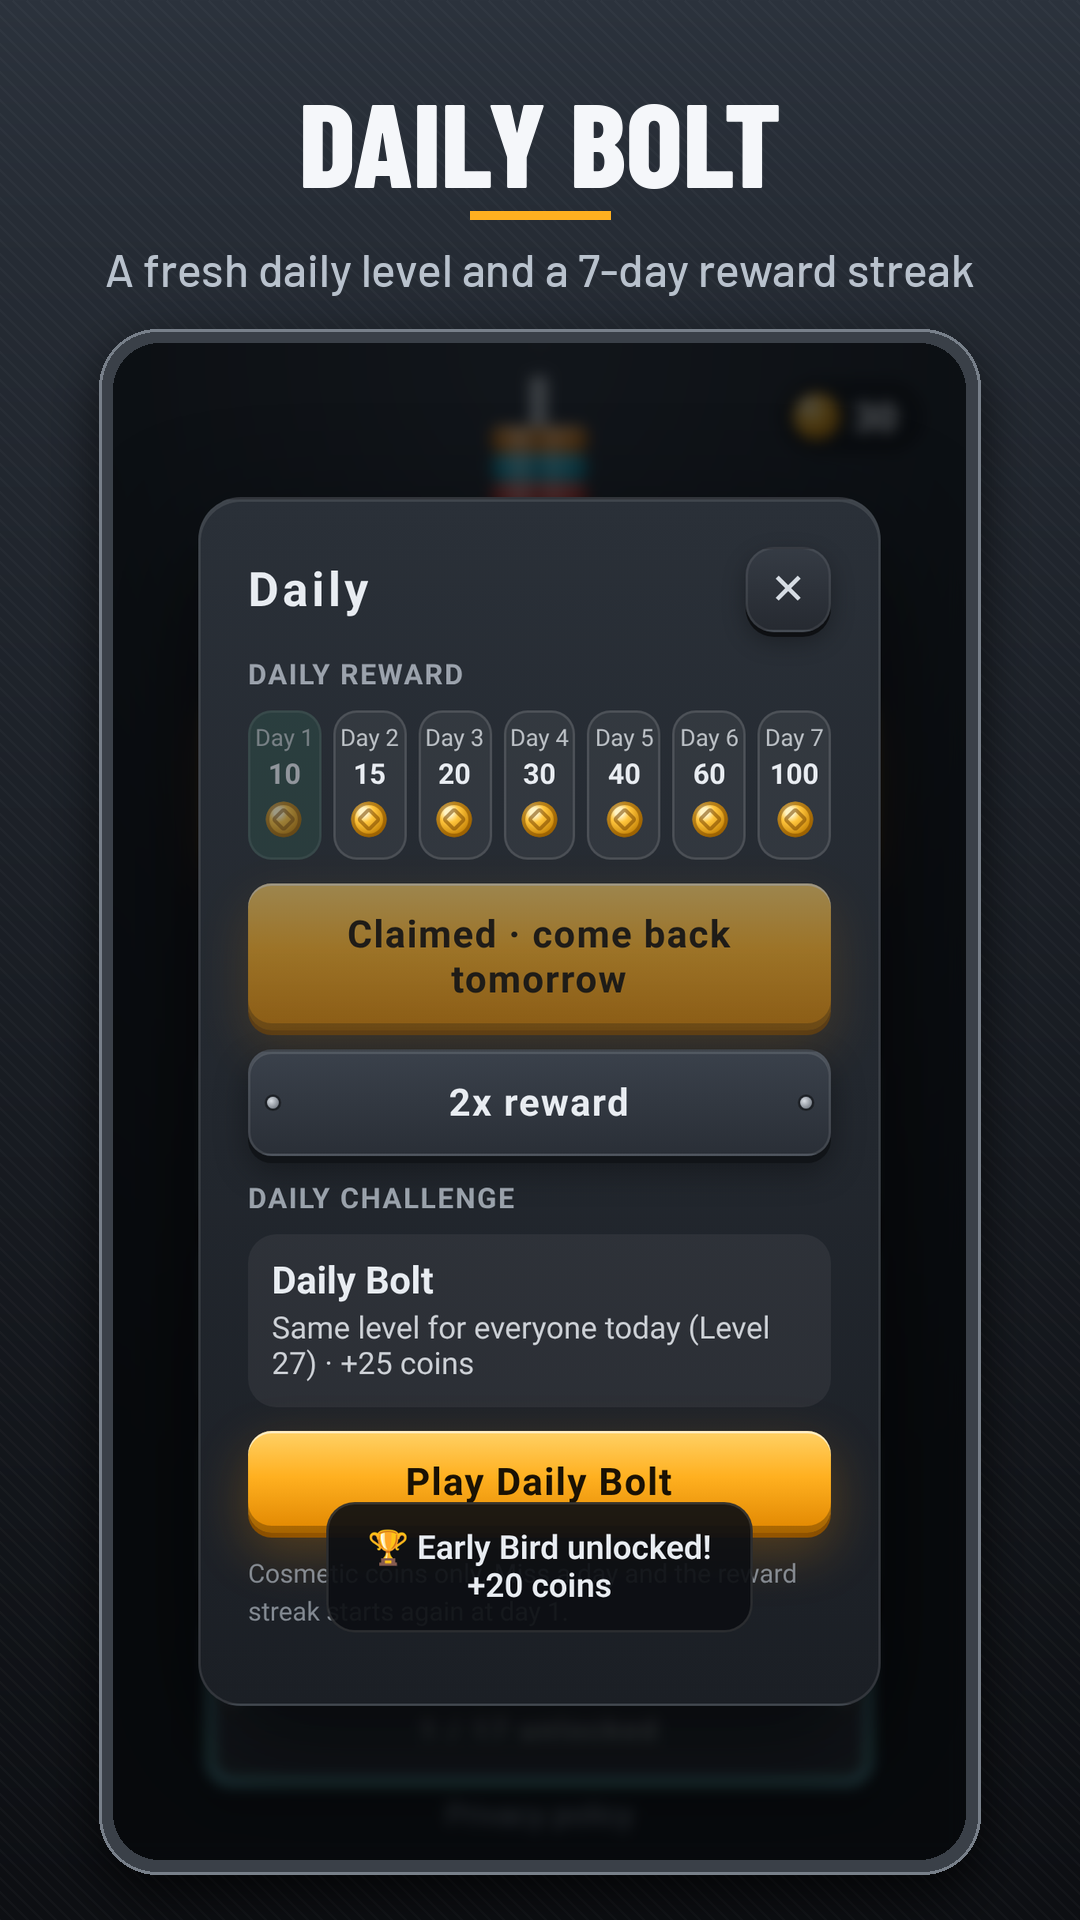
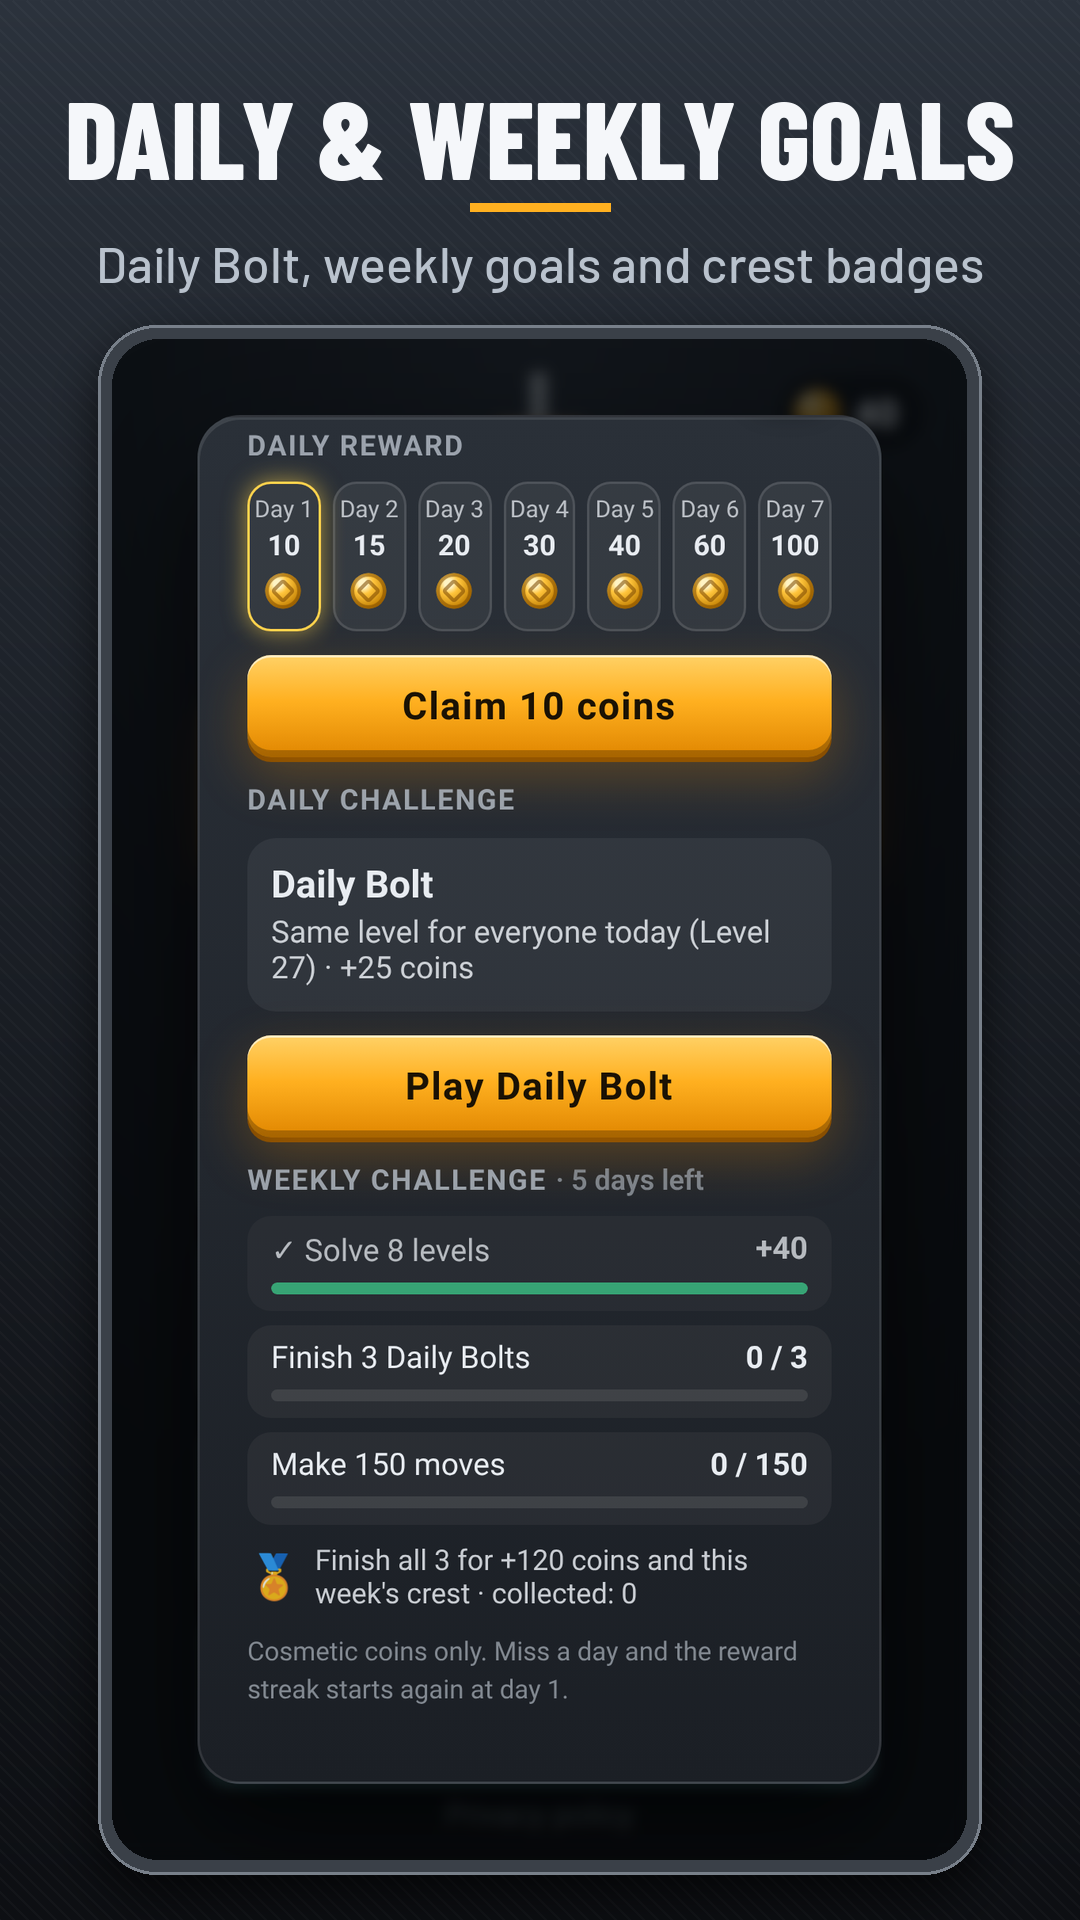
v1.9.0: screen-reader labels + non-drag placement, accessible theme preview, sudoku top bar fix, refreshed store kit

Changed region(s): [[0.1833, 0.2188, 0.825, 0.9062], [0.0611, 0.0312, 0.9472, 0.2188], [0.8861, 0.1875, 0.9167, 0.2188]]

diff --git a/www/js/a11y.js b/www/js/a11y.js
@@ -40,6 +40,38 @@
     });
   };
   A.sync = function (settings, ids) { A.apply(settings); Object.keys(ids).forEach(function (k) { var el = document.getElementById(ids[k]); if (el) el.checked = k === 'reduceMotion' ? A.reduced() : !!settings[k]; }); };
+
+  /**
+   * v1.9 shop preview: "Preview with" chips (High contrast / Larger text / Symbols) in the shop panel.
+   * Temporary only: nothing is saved, and the real settings are restored when the shop closes.
+   */
+  A.preview = { contrast: null, largeText: null, marks: null };
+  A.marksOn = function (settings) { return A.preview.marks != null ? A.preview.marks : !!(settings && settings.marks); };
+  A.previewBar = function (o) {
+    var ov = document.getElementById(o.overlay || 'shop'); if (!ov) return null;
+    var panel = ov.querySelector('.panel'), anchor = panel.querySelector('.note');
+    var bar = document.createElement('div'); bar.className = 'a11y-preview'; bar.setAttribute('role', 'group'); bar.setAttribute('aria-label', 'Preview themes with accessibility options');
+    bar.innerHTML = '<span class="a11y-preview-l">Preview with:</span>';
+    var chips = [['contrast', 'High contrast'], ['largeText', 'Larger text']].concat(o.marks ? [['marks', 'Symbols']] : []);
+    function cur(k) { return A.preview[k] != null ? A.preview[k] : !!o.settings[k]; }
+    function paint() {
+      var cl = document.documentElement.classList;
+      cl.toggle('a11y-contrast', cur('contrast')); cl.toggle('a11y-large', cur('largeText'));
+      if (o.marks) document.body.classList.toggle('marks', cur('marks'));
+      Array.prototype.forEach.call(bar.querySelectorAll('button'), function (b) { var on = cur(b.dataset.k); b.classList.toggle('on', on); b.setAttribute('aria-pressed', on ? 'true' : 'false'); });
+    }
+    chips.forEach(function (c) {
+      var b = document.createElement('button'); b.type = 'button'; b.className = 'chip'; b.dataset.k = c[0]; b.textContent = c[1];
+      b.addEventListener('click', function () { A.preview[c[0]] = !cur(c[0]); paint(); if (o.rerender) o.rerender(); if (o.sfx) o.sfx(); });
+      bar.appendChild(b);
+    });
+    if (anchor && anchor.nextSibling) panel.insertBefore(bar, anchor.nextSibling); else panel.appendChild(bar);
+    function reset() { A.preview = { contrast: null, largeText: null, marks: null }; A.apply(o.settings); if (o.marks) document.body.classList.toggle('marks', !!o.settings.marks); if (o.rerender) o.rerender(); paint(); }
+    new MutationObserver(function () { if (ov.classList.contains('hidden')) { if (A.preview.contrast != null || A.preview.largeText != null || A.preview.marks != null) reset(); } else paint(); })
+      .observe(ov, { attributes: true, attributeFilter: ['class'] });
+    paint();
+    return { reset: reset, paint: paint };
+  };
   if (typeof Element !== 'undefined' && Element.prototype.animate && !Element.prototype.animate.__a11y) {
     var orig = Element.prototype.animate;
     var wrapped = function (frames, opts) {

diff --git a/test/v19.test.js b/test/v19.test.js
@@ -1,0 +1,16 @@
+const assert = require('assert'), fs = require('fs'), dir = __dirname + '/../www/';
+const SR = require('../www/js/sr.js');
+assert.strictEqual(SR.assistive({ type: 'click', detail: 0 }), true, 'keyboard/TalkBack click');
+assert.strictEqual(SR.assistive({ type: 'click', detail: 1 }), false, 'real tap is not assistive');
+assert.strictEqual(SR.assistive({ type: 'pointerdown', detail: 0 }), false);
+const A = require('../www/js/a11y.js');
+assert.strictEqual(typeof A.previewBar, 'function');
+assert.strictEqual(A.marksOn({ marks: true }), true); A.preview.marks = false; assert.strictEqual(A.marksOn({ marks: true }), false, 'preview overrides'); A.preview.marks = null;
+const html = fs.readFileSync(dir + 'index.html', 'utf8'), game = fs.readFileSync(dir + 'js/game.js', 'utf8'), css = fs.readFileSync(dir + 'css/style.css', 'utf8');
+assert(html.indexOf('js/sr.js') > 0 && html.indexOf('js/sr.js') < html.indexOf('js/game.js'));
+assert(/previewBar\(/.test(game) && css.includes('.sr-only') && css.includes('.a11y-preview'));
+const name = fs.realpathSync(__dirname);
+if (/hexa-sort/.test(name)) assert(/function srSync/.test(game) && /cv\.setAttribute\('aria-hidden'/.test(game), 'hexa canvas has an accessible overlay');
+if (/block-puzzle/.test(name)) assert(/srSlotActivate/.test(game) && /'Piece ' \+ \(i \+ 1\)/.test(game), 'block tray pieces are labelled + activatable');
+if (/sudoku/.test(name)) { assert(/'Row ' \+ \(L\.ROW\[i\] \+ 1\)/.test(game), 'sudoku cells labelled'); assert(!/b\.daily::before/.test(css), 'top bar no longer prefixes Daily'); }
+console.log('v1.9 tests ok');

diff --git a/www/css/style.css b/www/css/style.css
@@ -412,3 +412,13 @@ html.a11y-contrast :focus-visible { outline: 3px solid #ffd400 !important; outli
 html.a11y-contrast .overlay { background: rgba(0,0,0,.78); }
 html.a11y-contrast { --muted: var(--txt); }
 html.a11y-contrast .nut { outline: 2px solid rgba(0,0,0,.75); outline-offset: -2px; }
+/* Screen-reader helpers (v1.9) */
+.sr-only { position: absolute !important; width: 1px; height: 1px; padding: 0; margin: -1px; overflow: hidden; clip: rect(0 0 0 0); white-space: nowrap; border: 0; }
+.sr-grid { position: absolute; inset: 0; pointer-events: none; z-index: 2; }
+.sr-grid button { position: absolute; width: 44px; height: 44px; transform: translate(-50%, -50%); background: transparent; border: 0; padding: 0; color: transparent; font-size: 1px; }
+.sr-grid button:focus-visible, .slot:focus-visible, #board .cell:focus-visible { outline: 3px solid #ffd400; outline-offset: 2px; border-radius: 8px; }
+.slot.sr-sel { outline: 3px dashed #ffd400; outline-offset: -3px; border-radius: 12px; }
+.a11y-preview { display: flex; flex-wrap: wrap; align-items: center; gap: 6px; margin: 2px 0 8px; font-size: 12px; }
+.a11y-preview-l { opacity: .75; font-weight: 700; }
+.a11y-preview .chip { padding: 5px 10px; border-radius: 999px; border: 1px solid rgba(127,127,127,.45); background: rgba(127,127,127,.12); font-size: 12px; font-weight: 700; color: inherit; }
+.a11y-preview .chip.on { background: #ffd400; color: #1a1400; border-color: #ffd400; }

diff --git a/www/js/sr.js b/www/js/sr.js
@@ -1,0 +1,22 @@
+/* Screen-reader helpers (v1.9): polite live region + "is this an assistive/keyboard activation?" */
+(function (root) {
+  'use strict';
+  var live = null, t = null;
+  var SR = {
+    say: function (msg) {
+      if (typeof document === 'undefined' || !msg) return;
+      if (!live) {
+        live = document.getElementById('sr-live');
+        if (!live) { live = document.createElement('div'); live.id = 'sr-live'; live.className = 'sr-only'; live.setAttribute('aria-live', 'polite'); live.setAttribute('role', 'status'); document.body.appendChild(live); }
+      }
+      clearTimeout(t); live.textContent = '';
+      t = setTimeout(function () { live.textContent = msg; }, 60);
+    },
+    /** TalkBack double-tap and keyboard Enter/Space produce clicks with detail 0 (no real pointer) */
+    assistive: function (e) { return !!e && e.type === 'click' && !e.detail; },
+    COLORS: ['red', 'orange', 'yellow', 'green', 'teal', 'blue', 'purple', 'pink', 'cyan', 'lime'],
+    last: function () { return live ? live.textContent : ''; }
+  };
+  root.SR = SR;
+  if (typeof module !== 'undefined' && module.exports) module.exports = SR;
+})(typeof window !== 'undefined' ? window : globalThis);

diff --git a/www/js/game.js b/www/js/game.js
@@ -89,7 +89,7 @@
     var cl = document.body.classList;
     Array.prototype.slice.call(cl).forEach(function (c) { if (/^(bg|bolt|nut)-/.test(c)) cl.remove(c); });
     cl.add('bg-' + curSkin('bg'), 'bolt-' + curSkin('bolt'), 'nut-' + curSkin('nut'));
-    cl.toggle('marks', !!save.settings.marks);
+    cl.toggle('marks', window.A11y ? window.A11y.marksOn(save.settings) : !!save.settings.marks);
   }
   function wait(ms) { return new Promise(function (r) { setTimeout(r, ms); }); }
   function prefersReducedMotion() {
@@ -858,6 +858,7 @@
   window.__weekly = weekly;
 
   // ---------------- boot ----------------
+  if (window.A11y && window.A11y.previewBar) window.A11y.previewBar({ settings: save.settings, marks: true, rerender: function () { applySkins(); renderShop(); }, sfx: function () { SFX.click(); } });
   if (window.A11y) window.A11y.apply(save.settings);
   SFX.setEnabled(save.settings.sound);
   applySkins(); setCoins();

diff --git a/www/index.html b/www/index.html
@@ -136,7 +136,7 @@
           <button id="btn-replay-tutorial" class="btn plate" type="button">Replay tutorial</button>
           <button id="btn-reset" class="btn plate danger">Reset progress</button>
         </div>
-        <p class="ver">Nut &amp; Bolt Sort v1.8.0 · © OfferPk</p>
+        <p class="ver">Nut &amp; Bolt Sort v1.9.0 · © OfferPk</p>
       </div>
     </div>
 
@@ -167,6 +167,7 @@
   <script src="js/sound.js"></script>
   <script src="js/skins.js"></script>
   <script src="js/a11y.js"></script>
+  <script src="js/sr.js"></script>
   <script src="js/daily.js"></script>
   <script src="js/weekly.js"></script>
   <script src="js/weekly-goals.js"></script>

diff --git a/store/make_store_art.py b/store/make_store_art.py
@@ -21,8 +21,8 @@ CAPTIONS = [
     ('04', 'STUCK? GET A HINT', 'Optional solver hint and a spare bolt'),
     ('05', 'UNLOCK SLEEK FINISHES', 'Brass, copper, titanium & more. Cosmetic only'),
     ('06', '1000+ SOLVABLE LEVELS', 'Every level verified. Play offline, no Wi-Fi'),
-    ('07', 'DAILY BOLT', 'A fresh daily level and a 7-day reward streak'),
-    ('08', 'ACHIEVEMENTS & STATS', '17 goals to chase. Track your records'),
+    ('07', 'DAILY & WEEKLY GOALS', 'Daily Bolt, weekly goals and crest badges'),
+    ('08', 'PLAY YOUR WAY', 'Color symbols, high contrast, larger text'),
 ]
 
 

diff --git a/store/LISTING-v1.9.md b/store/LISTING-v1.9.md
@@ -1,0 +1,77 @@
+# Store listing v1.9.0: Nut & Bolt Sort (English, en-US)
+
+Package: `com.offerpk.nutboltsort` · Version 1.9.0 (versionCode 12). Supersedes `LISTING-v1.5.md` (app name unchanged).
+
+## Short description (limit 80)
+
+**77 / 80 characters**
+
+```
+Satisfying nut & bolt color sort puzzle. Daily level, rewards. Plays offline.
+```
+
+## Full description (limit 4000)
+
+**2045 / 4000 characters** (Python `len()`; bullets count as 1)
+
+```
+Nut & Bolt Sort is a tactile color-sorting puzzle. Unscrew nuts, move them between bolts and tighten every bolt with a single color. Every level is verified solvable.
+
+HOW TO PLAY
+• Tap a bolt to lift its top nuts, then tap another bolt to drop them
+• Nuts land only on an empty bolt or the same color with room to spare
+• Undo is free; optional Hint and +1 Bolt help when you are stuck
+• Sort every bolt to one color to clear the level
+
+COME BACK EVERY DAY
+• A Daily Bolt level that is the same for everyone, plus a 7-day reward calendar
+• Rising coin rewards for a 7-day streak (miss a day and it restarts)
+• Daily challenge streaks
+
+WEEKLY CHALLENGE
+• Three new goals every week, the same for every player
+• Earn coins and collect a crest badge for each completed week, shown in your Achievements
+• A gentle mid-week reminder on the Daily card (never a notification)
+
+ACHIEVEMENTS & STATS
+• 17 achievements for progress, skill, streaks, daily challenges and collecting
+• Stats: games played, best results, coins earned and your longest play streak
+
+SKIN SHOP
+• 8 nut finishes, 8 bolt metals and 9 backdrops (Rose Gold, Frosted Ice, Gunmetal Bronze, Greenhouse, Arctic Lab and more)
+• Preview before you buy. Everything is cosmetic and bought with coins you earn in the game
+• No real-money purchases, no loot boxes, no cash-out
+
+MADE FOR RELAXING
+• Plays fully offline
+• Friendly first-level tutorial (replay it any time from Settings)
+• Sound and haptics toggles, see Accessibility below
+
+ACCESSIBILITY
+• Reduce motion (follows your phone setting, or choose yourself)
+• Larger text and a high-contrast mode
+• Color symbols on every piece for color-blind players
+• Screen-reader and keyboard support: every bolt is labelled with its nuts, colors and symbols
+• Preview shop themes with these options turned on before you buy
+
+ADS
+The game is free and shows ads. Optional rewarded ads play only when you tap a button (for example a hint or a free 24-hour skin try). Full-screen ads only appear between finished games or levels, never at launch.
+```
+
+## What's new (release notes, limit 500)
+
+```
+New: weekly challenge with collectible crests, a crest showcase in Achievements, and accessibility options (reduce motion, larger text, high contrast, color symbols). Better screen-reader support and new shop themes. Preview themes with accessibility options on.
+```
+
+## Graphics in this folder
+
+| Asset | File | Size |
+|---|---|---|
+| Phone screenshots (8) | `store/screenshots/01.png` … `08.png` | 1080×1920 each |
+| Feature graphic | `store/feature-graphic-1024x500.png` | 1024×500 |
+| App icon | `store/icon-512.png` | 512×512 (see `ICON-CHECK.md`) |
+
+Screenshots 07 (daily + weekly goals) and 08 (accessibility options on) are new in v1.9.0; 01–06 are unchanged.
+
+Data safety: no change from `DATA-SAFETY-v1.5.md` (weekly goals, crests and accessibility settings are stored on the device only).
